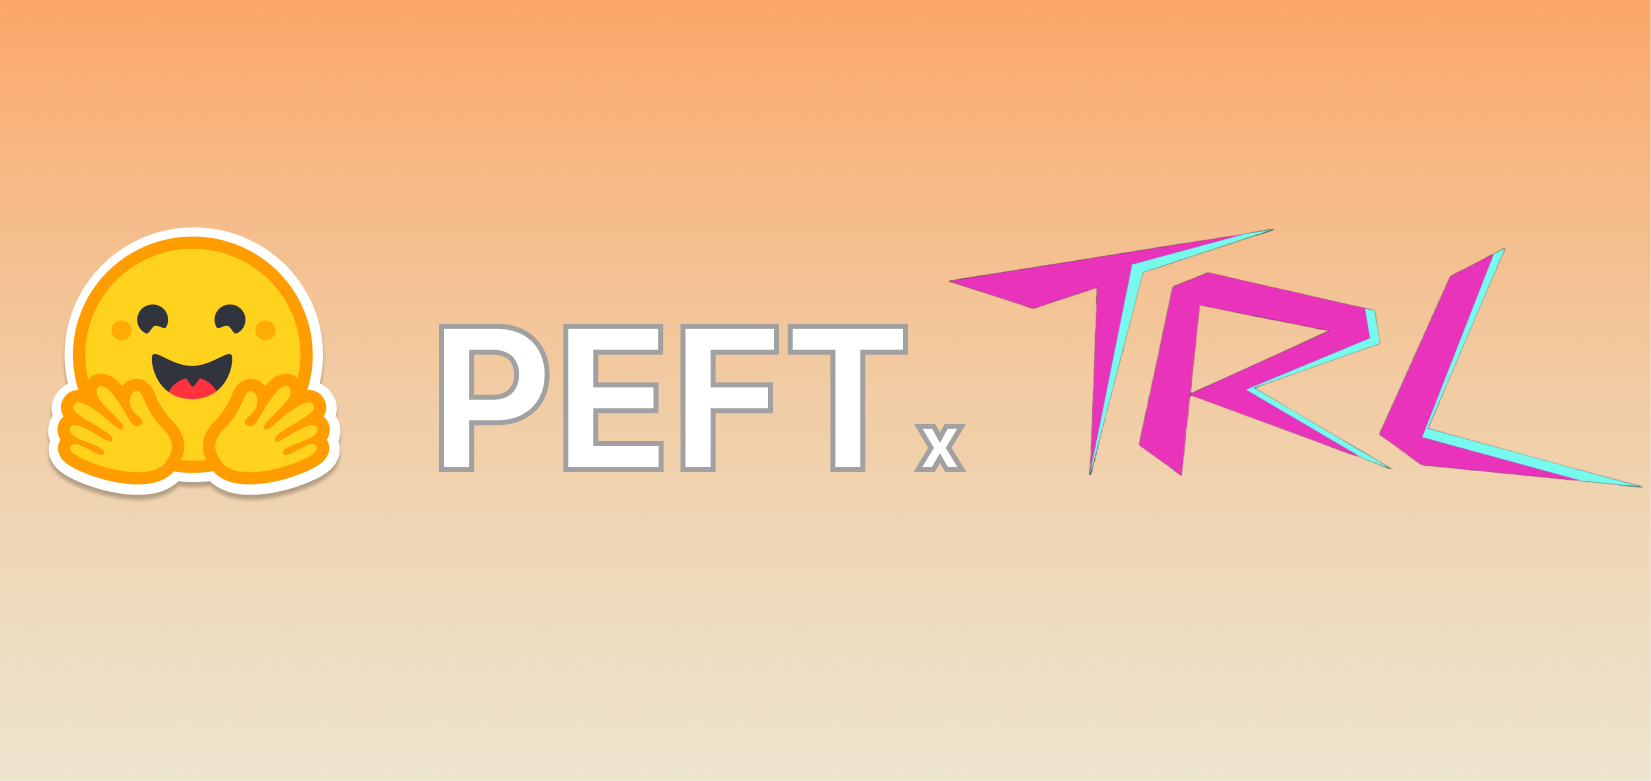
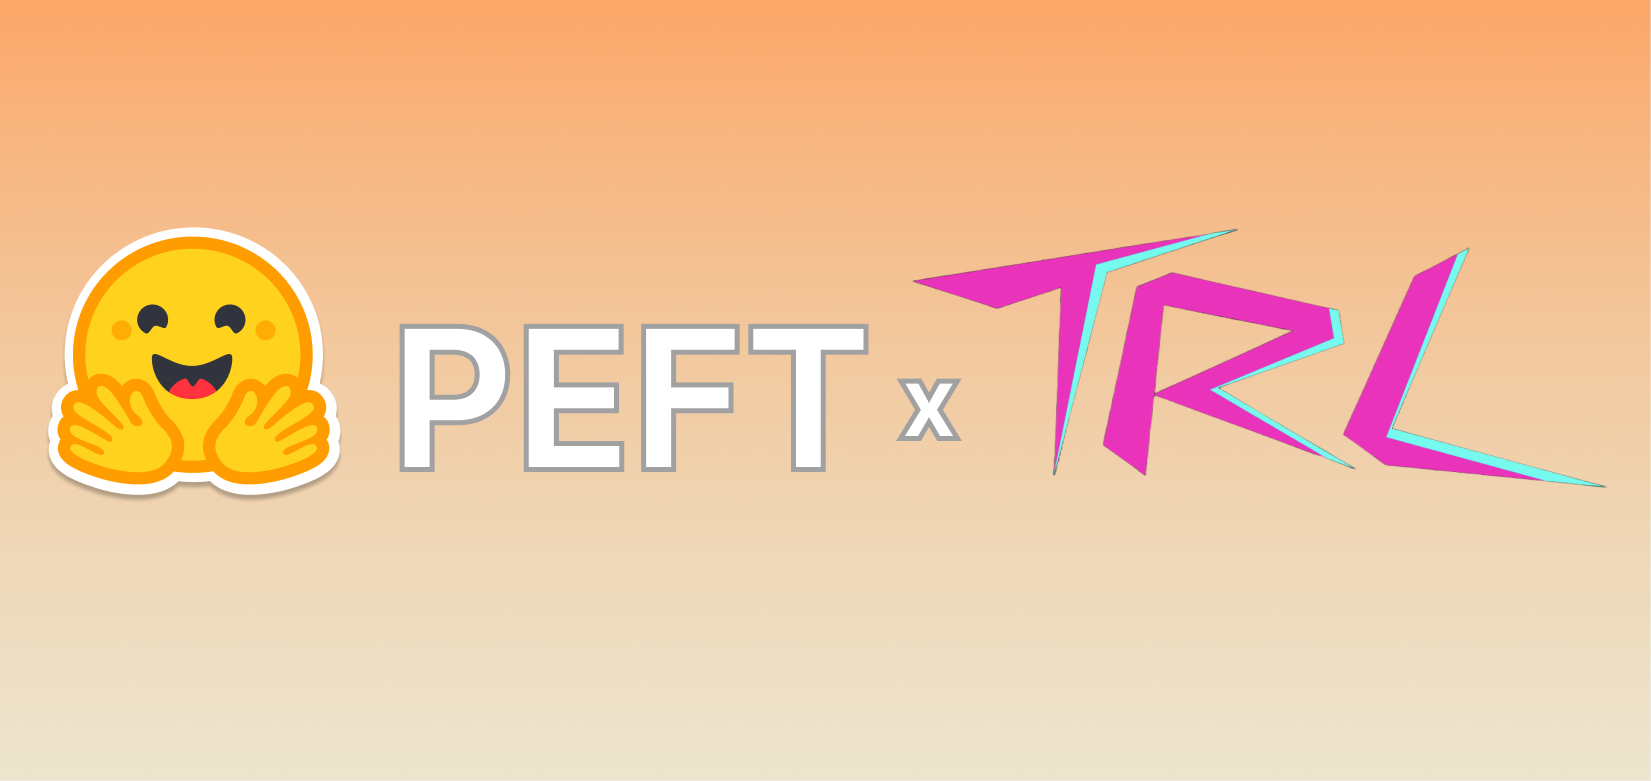
change thumbnail

Changed region(s): [[0.556, 0.2766, 0.9885, 0.6453], [0.2162, 0.3995, 0.5869, 0.6146]]

diff --git a/trl-peft.md b/trl-peft.md
@@ -6,6 +6,8 @@ authors:
 - ybelkada
 - lvwerra
 - smangrul
+- lewtun
+- kashif
 ---
 
 <h1>
